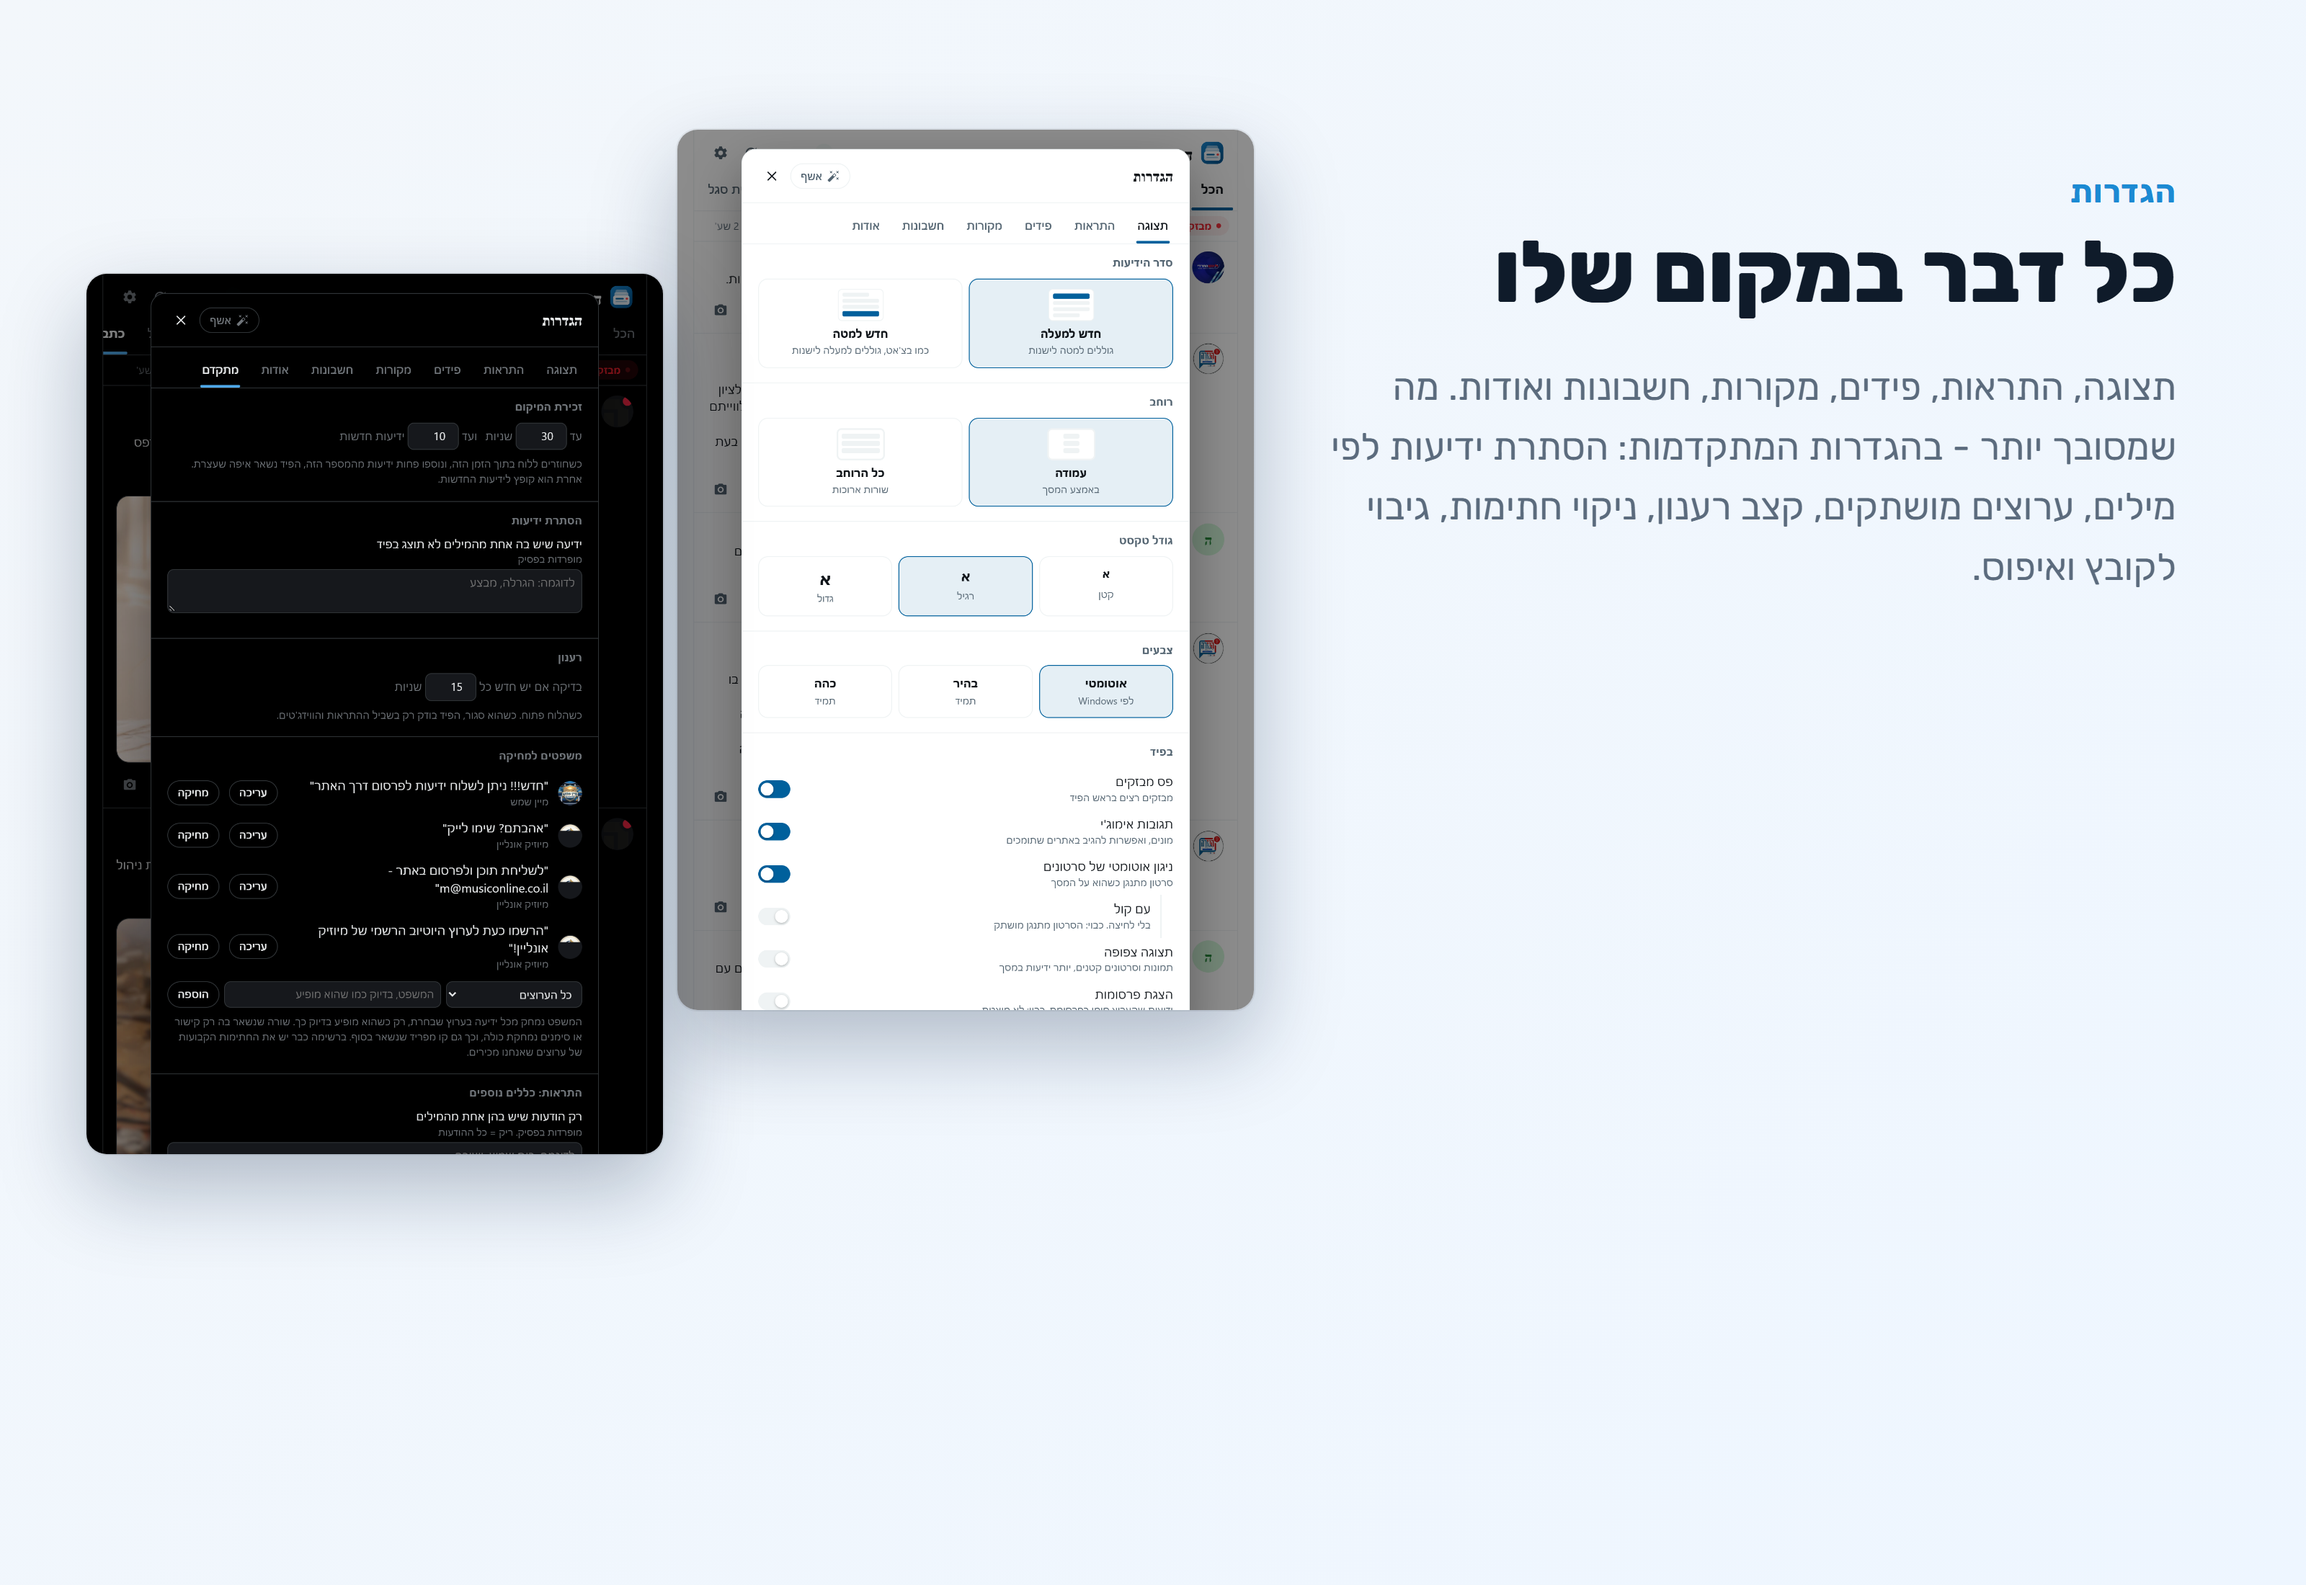
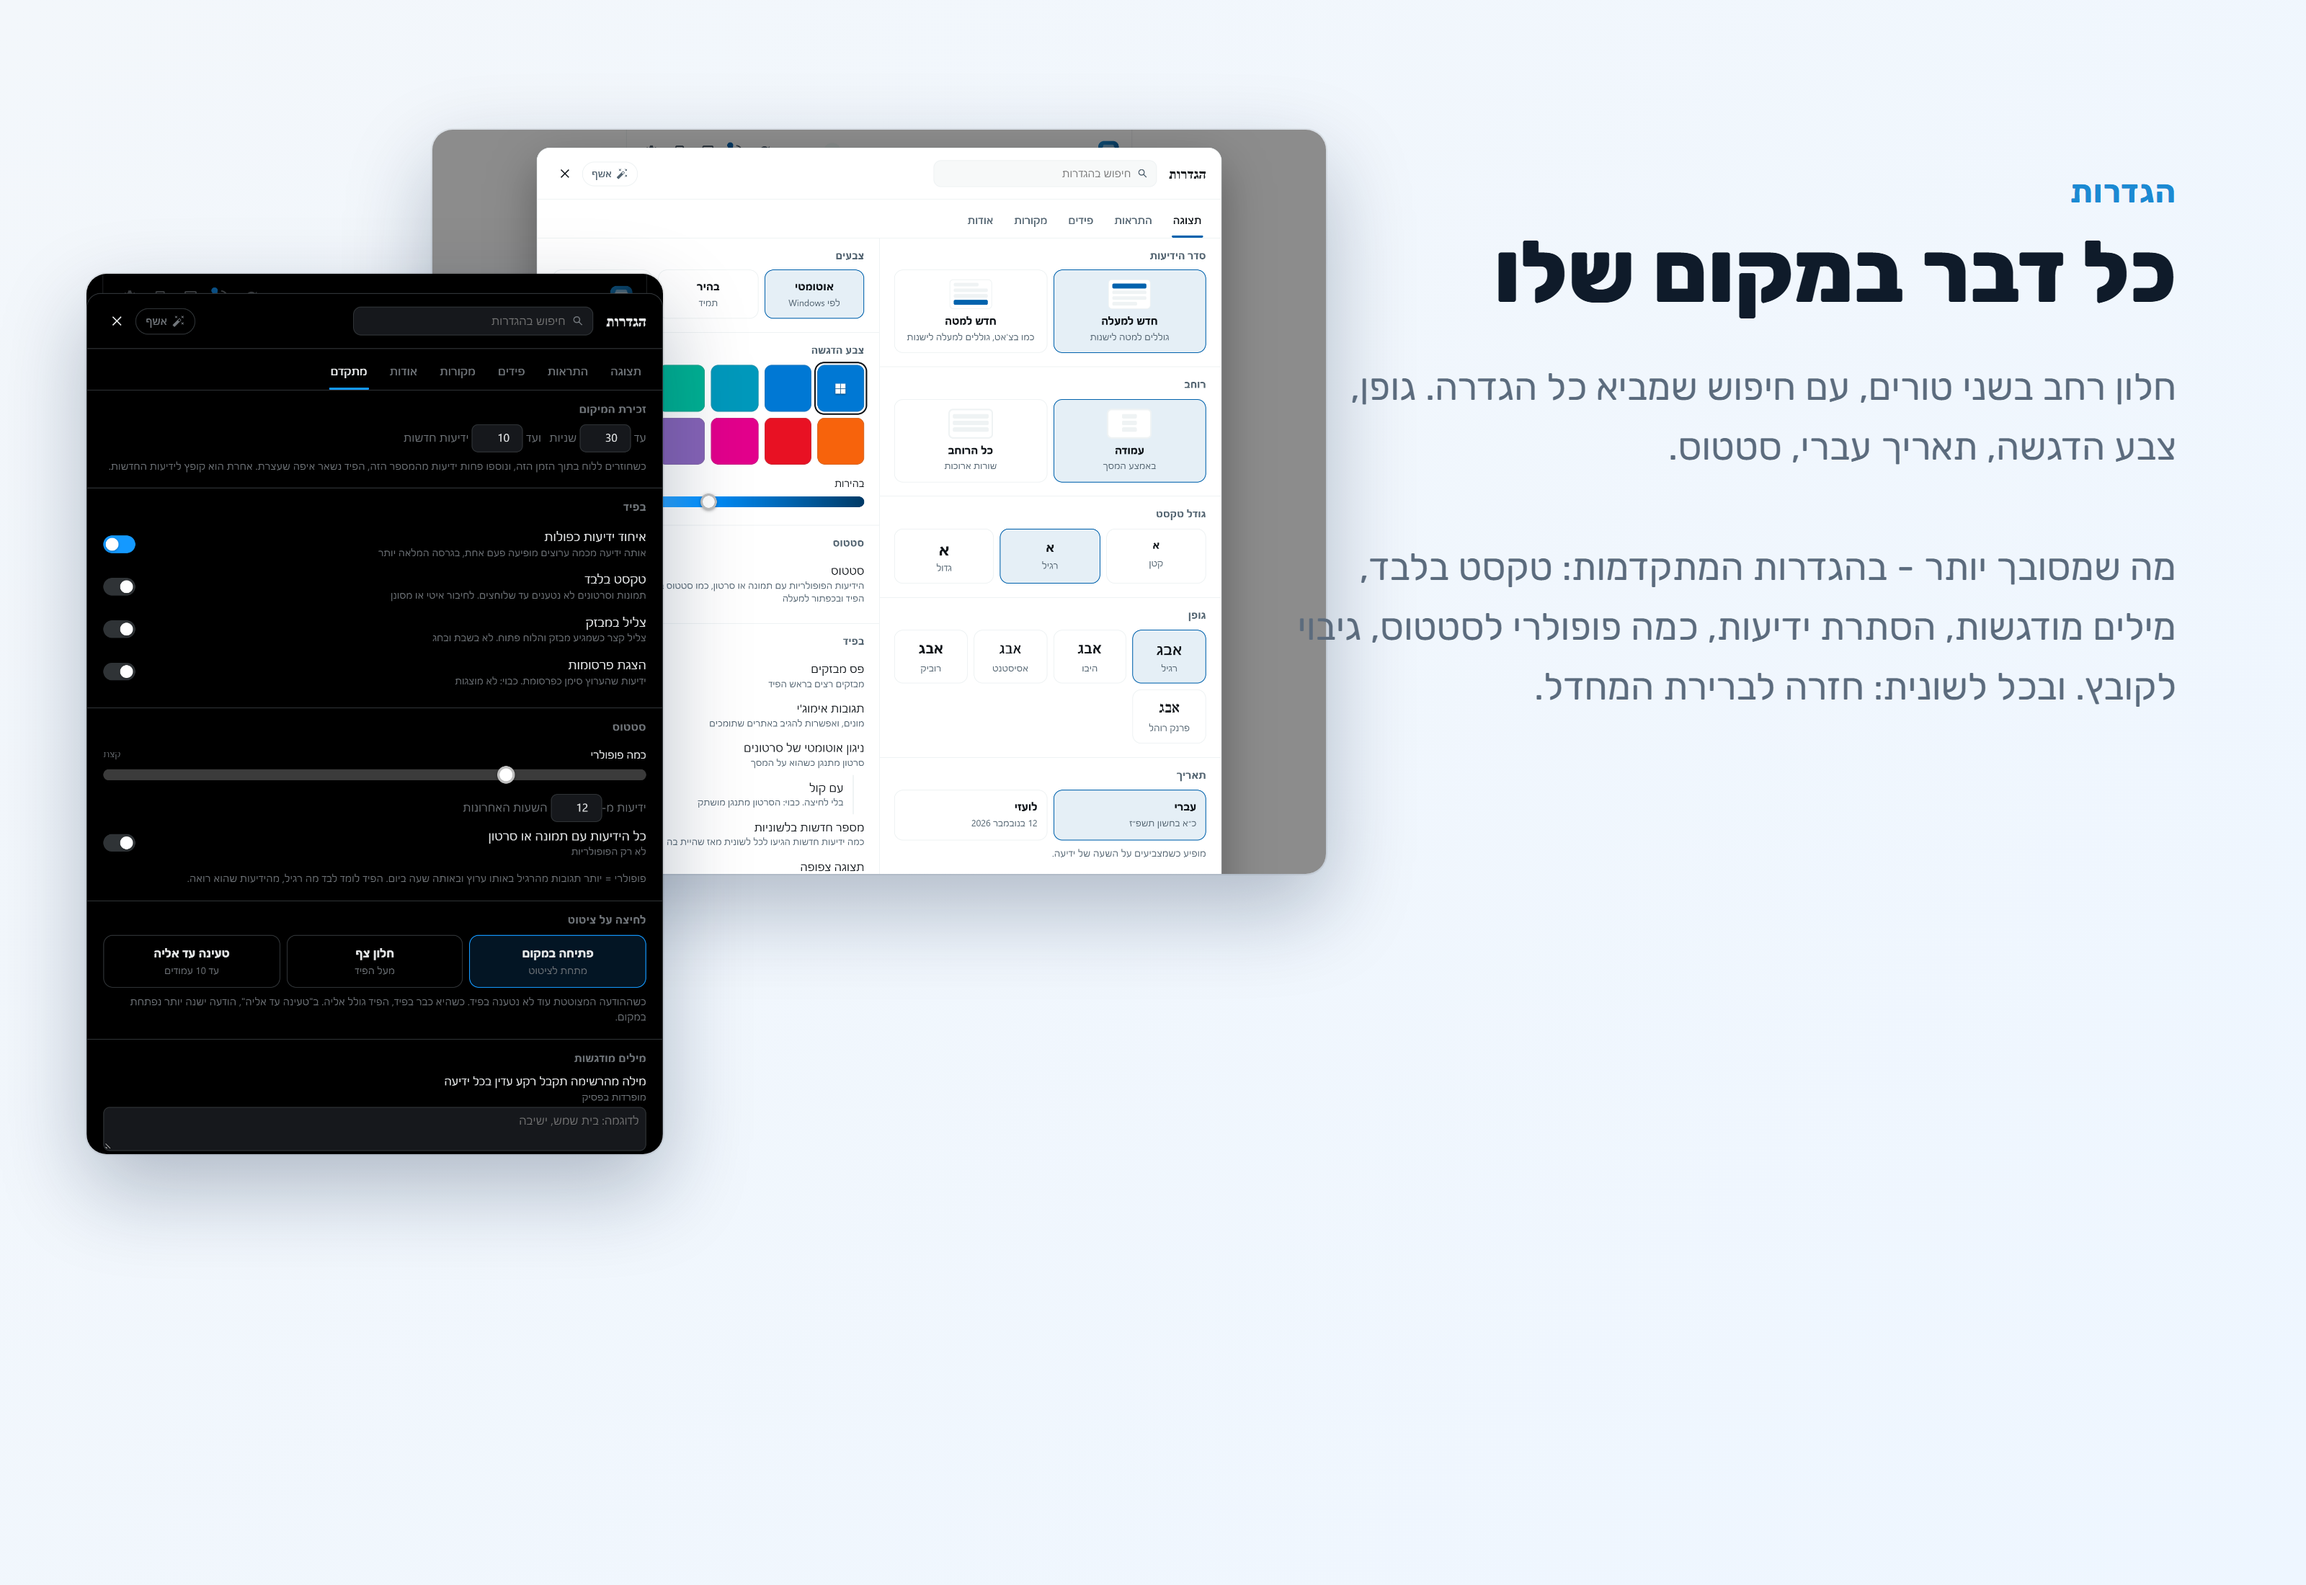
README and images: status, pictures, saved items, reading articles, merged duplicates, wide settings with search

diff --git a/src/feed.html b/src/feed.html
@@ -1867,7 +1867,7 @@ function openTab(t) {
   if (inSaved) {
     tab = t; stream = newStream([]); seen = new Set(); pending = []; loading = false;
     $("#pill").classList.remove("show");
-    buildTabs(); showSaved(); scroller.scrollTop = 0;
+    buildTabs(); showSaved(); stRefresh(); scroller.scrollTop = 0;
     return;
   }
   if (was) buildTabs();
@@ -3632,7 +3632,7 @@ function showPics() {
   $("#pill").classList.remove("show"); $("#empty").hidden = true;
   const grid = el("div", "gallery");
   $("#feed").replaceChildren(grid);
-  buildTabs(); picsAdd(items); scroller.scrollTop = 0;
+  buildTabs(); stRefresh(); picsAdd(items); scroller.scrollTop = 0;
 }
 function picsAdd(items) {
   const grid = $("#feed .gallery");
@@ -3779,7 +3779,9 @@ function waWhen(t) {
   return `${fmtDate.format(t)}, ${hm}`;
 }
 function stTile(g, list) {
-  const last = g.items.at(-1), m = norm(last).media.find((x) => x.kind === "image") || norm(last).media.find((x) => x.kind === "video");
+  // The newest picture of the group (a video shows only when there is no picture at all).
+  const pic = [...g.items].reverse().map((it) => norm(it).media.find((x) => x.kind === "image")).find(Boolean);
+  const m = pic || norm(g.items.at(-1)).media.find((x) => x.kind === "video");
   const b = el("button", "st-tile" + (unseenOf(g) ? "" : " seen"));
   if (m?.kind === "image") { const i = el("img"); i.src = m.url; i.alt = ""; i.loading = "lazy"; b.append(i); }
   else { const v = el("div", "pv"); if (m?.poster) v.style.background = `center / cover url("${m.poster}")`; else v.textContent = "▶"; b.append(v); }

diff --git a/README.md b/README.md
@@ -15,6 +15,11 @@
 - קישור לכל ידיעה באתר המקור, העתקת קישור, העתקת צילום של ידיעה, העתקת קובץ סרטון.
 - תגובות אימוג'י באתרים שתומכים בהן.
 - ניקוי חתימות ומשפטים קבועים, לכל ערוץ.
+- סטטוס בסגנון וואטסאפ: ידיעות פופולריות עם תמונה או סרטון מ-12 השעות האחרונות, לכל פיד (לשונית), בשורת ריבועים בראש הפיד ובמסך "סטטוס" עם שורה לכל ערוץ. מעבר בנגיעה, עצירה בלחיצה ארוכה, השתקה. "פופולרי": תגובות מעל הממוצע הנע של הערוץ, מתוקן לפי משקל שעה ביום שנלמד מהנתונים (ברירת מחדל: פי 1.2, ולפחות 2 תגובות).
+- שמורים (localStorage), רשת תמונות של לשונית, תמונה מוגדלת עם טקסט הידיעה.
+- קריאת כתבה בפיד: הדף מהאתר דרך הספק, מנוקה לטקסט ותמונות (בלי פרסומות וכרטיסי כתבות אחרות). אמס דרך WordPress REST.
+- איחוד ידיעות כפולות מערוצים שונים (חפיפת מילים), הגרסה המלאה נשארת עם "גם ב:".
+- תאריך עברי (או לועזי), חמישה גופנים (Google Fonts), 12 צבעי הדגשה או צבע Windows, טקסט בלבד, מילים מודגשות, קיצורי מקלדת.
 - ווידג'טים, שלושה גדלים, בהיר וכהה:
   - **מבזקים** - רשימת המבזקים של הגזרה.
   - **ערוץ או פיד** - ההודעות האחרונות מערוץ, קטגוריה, "הכל" או פיד מותאם, לפי בחירה בהתאמה האישית של הווידג'ט.
@@ -23,12 +28,19 @@
   - **חיפוש בפיד** - Input.Text עם Action.Execute; חיפוש בשלושה עמודים של כל ערוץ דלוק ובכתבות של האתרים.
   - **כותרת מכל קטגוריה** - הידיעה האחרונה בכל קטגוריה, לפי עדכניות.
   - **דיל אחרון** - חמשת הדילים האחרונים עם תמונה, מתחלפים כל 15 שניות.
+  - **סטטוס** - הסטטוסים הפופולריים עם תמונה, מתחלפים. לחיצה פותחת את הסטטוס בפיד.
 - התראות: על כפתור הלוח, הודעת Windows, או שניהם. לכל ערוץ: כבוי / מבזקים / הכל. שקט בלילה, איחוד הצפות, מילות מפתח. אין התראות בשבת ובחג (זמני ירושלים).
-- עדכון אוטומטי מ-GitHub Releases.
+- עדכון אוטומטי מ-GitHub Releases: ברקע בלי חלון, מ"אודות" עם חלון התקדמות קטן.
+- הגדרות: חלון רחב בשני טורים, חיפוש בכל הלשוניות, איפוס לכל לשונית עם ביטול. התחברות בשורת הערוץ.
 - הגדרות מתקדמות: קצב רענון (ברירת מחדל 15 שניות), גיבוי ושחזור לקובץ (`Documents\HaFeed-backup-*.json`, בלי ההתחברויות), ניקוי זיכרון, איפוס.
+- אודות: "מה חדש" מכל ה-Releases, מונה ההורדות של GitHub, ודיווח על בעיה (GitHub Issue מוכן עם גרסה, Windows ויומן).
 - אשף בפתיחה הראשונה. בהיר וכהה לפי Windows.
 
 ![](docs/images/features.png)
+
+![](docs/images/status.png)
+
+![](docs/images/more.png)
 
 ![](docs/images/widgets.png)
 
@@ -43,10 +55,12 @@
 ## התקנה, עדכון והסרה
 
 1. מורידים את `HaFeed-Setup.cmd` מ-[Releases](https://github.com/The-Young-boy/HaFeed/releases/latest).
-2. מריצים, "התקנה", ומאשרים את בקשת המנהל.
+2. מריצים, "התקנה", "המשך" במסך ההסבר, ומאשרים את בקשת המנהל.
 3. מפעילים מחדש. Win+W, ולוחצים על הלוגו של הפיד בסרגל הצד.
 
-אם יש ב-Releases גרסה חדשה יותר מזו שבקובץ, המתקין מוריד ומתקין אותה.
+אם יש ב-Releases גרסה חדשה יותר מזו שבקובץ, המתקין מציין את זה, מוריד ומתקין אותה.
+
+התקנה בלי ממשק: `HaFeed-Setup.cmd /quiet`. קוד יציאה 0 = הותקן, 3010 = הותקן ונדרשת הפעלה מחדש, 1 = נכשל (פרטים ב-`%ProgramData%\HagizraFeed\setup.log`).
 
 **עדכונים:** הפיד בודק את ה-Release האחרון שתי דקות אחרי שהוא עולה, ואחר כך כל 6 שעות. גרסה חדשה מותקנת ברקע. אפשר לכבות ב"אודות".
 
@@ -78,7 +92,8 @@
 
 - אין שרת של הפרויקט. הבקשות יוצאות מהמחשב ישירות לאתרי הערוצים, ול-GitHub לבדיקת עדכונים.
 - אין חשבון, אין מעקב ואין טלמטריה.
-- ההגדרות נשמרות במחשב בלבד. ההתחברויות נשמרות מוצפנות ב-DPAPI, ו"התנתקות" מוחקת אותן.
+- ההגדרות, השמורים והנצפים נשמרים במחשב בלבד. מונה ההורדות הוא של GitHub; אין ספירת התקנות.
+- ההתחברויות נשמרות מוצפנות ב-DPAPI, ו"התנתקות" מוחקת אותן.
 
 ## מבנה הקוד
 
@@ -91,6 +106,7 @@
 | `src/login.rs` | התחברות Google דרך Edge, אחסון DPAPI |
 | `src/notify.rs` | ToastNotification ו-FeedAnnouncement |
 | `src/update.rs` | בדיקת עדכונים והתקנה |
+| `src/update-window.ps1` | חלון ההתקדמות של עדכון מ"אודות" |
 | `src/clip.rs` | העתקת סרטון כקובץ |
 | `src/bindings.rs` | נוצר מ-`winmd/` על ידי `tools/gen` |
 | `dist/Setup.template.cmd` | המתקין: CMD אחד עם ממשק WPF |
@@ -120,6 +136,7 @@
 - [Windows App SDK](https://github.com/microsoft/WindowsAppSDK) ו-[windows-rs](https://github.com/microsoft/windows-rs) - מיקרוסופט.
 - [Adaptive Cards](https://adaptivecards.io) - מיקרוסופט. קבצי ה-host config ב-`tools/widget-preview`.
 - [Noto Emoji](https://github.com/googlefonts/noto-emoji) - Google, נטען מ-fonts.gstatic.com.
+- היבו, אסיסטנט, רוביק ופרנק רוהל - [Google Fonts](https://fonts.google.com), נטענים רק כשבוחרים בהם.
 - [serde_json](https://github.com/serde-rs/json).
 
 ## רישיון
